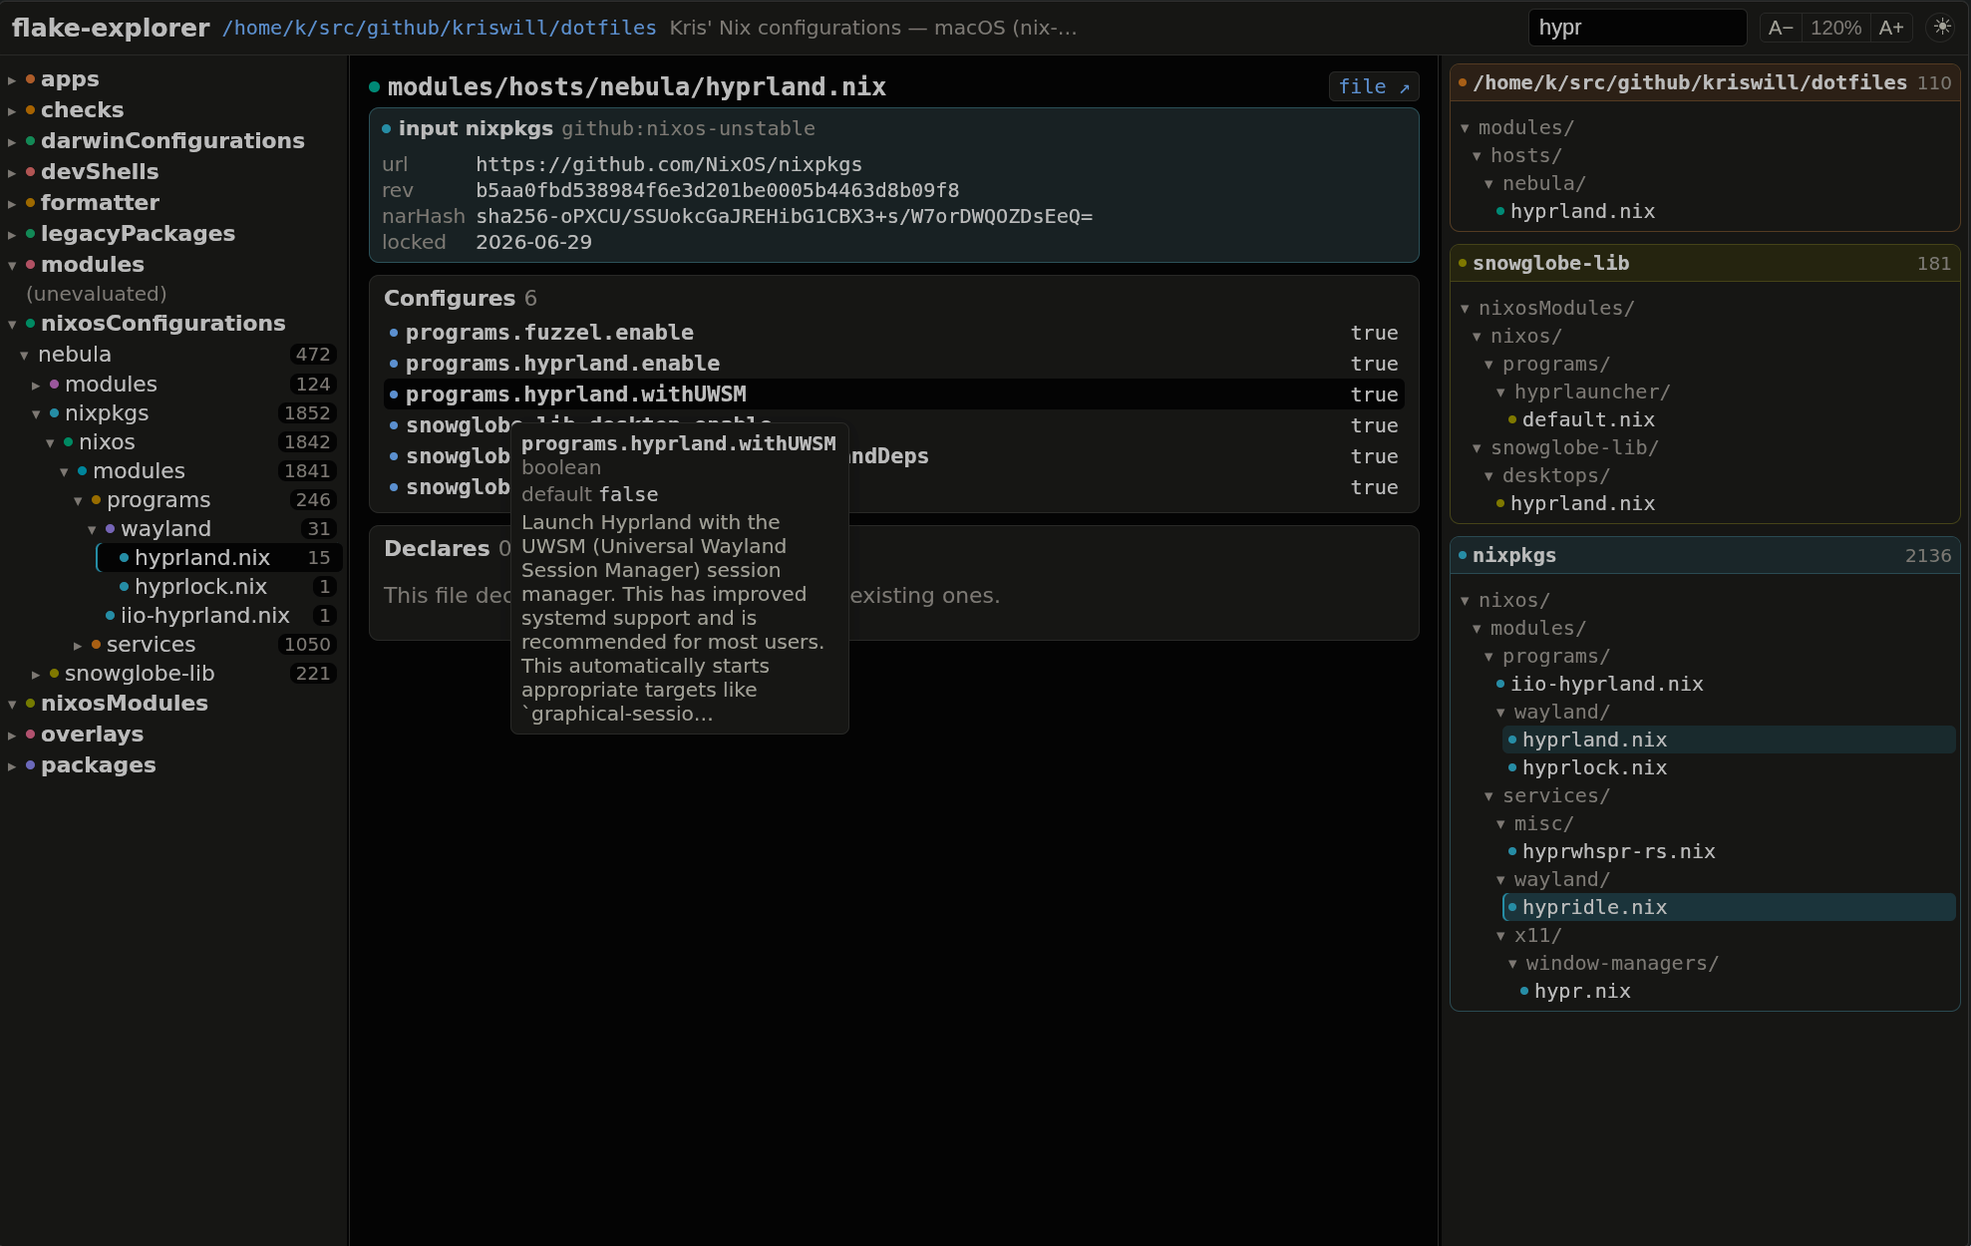
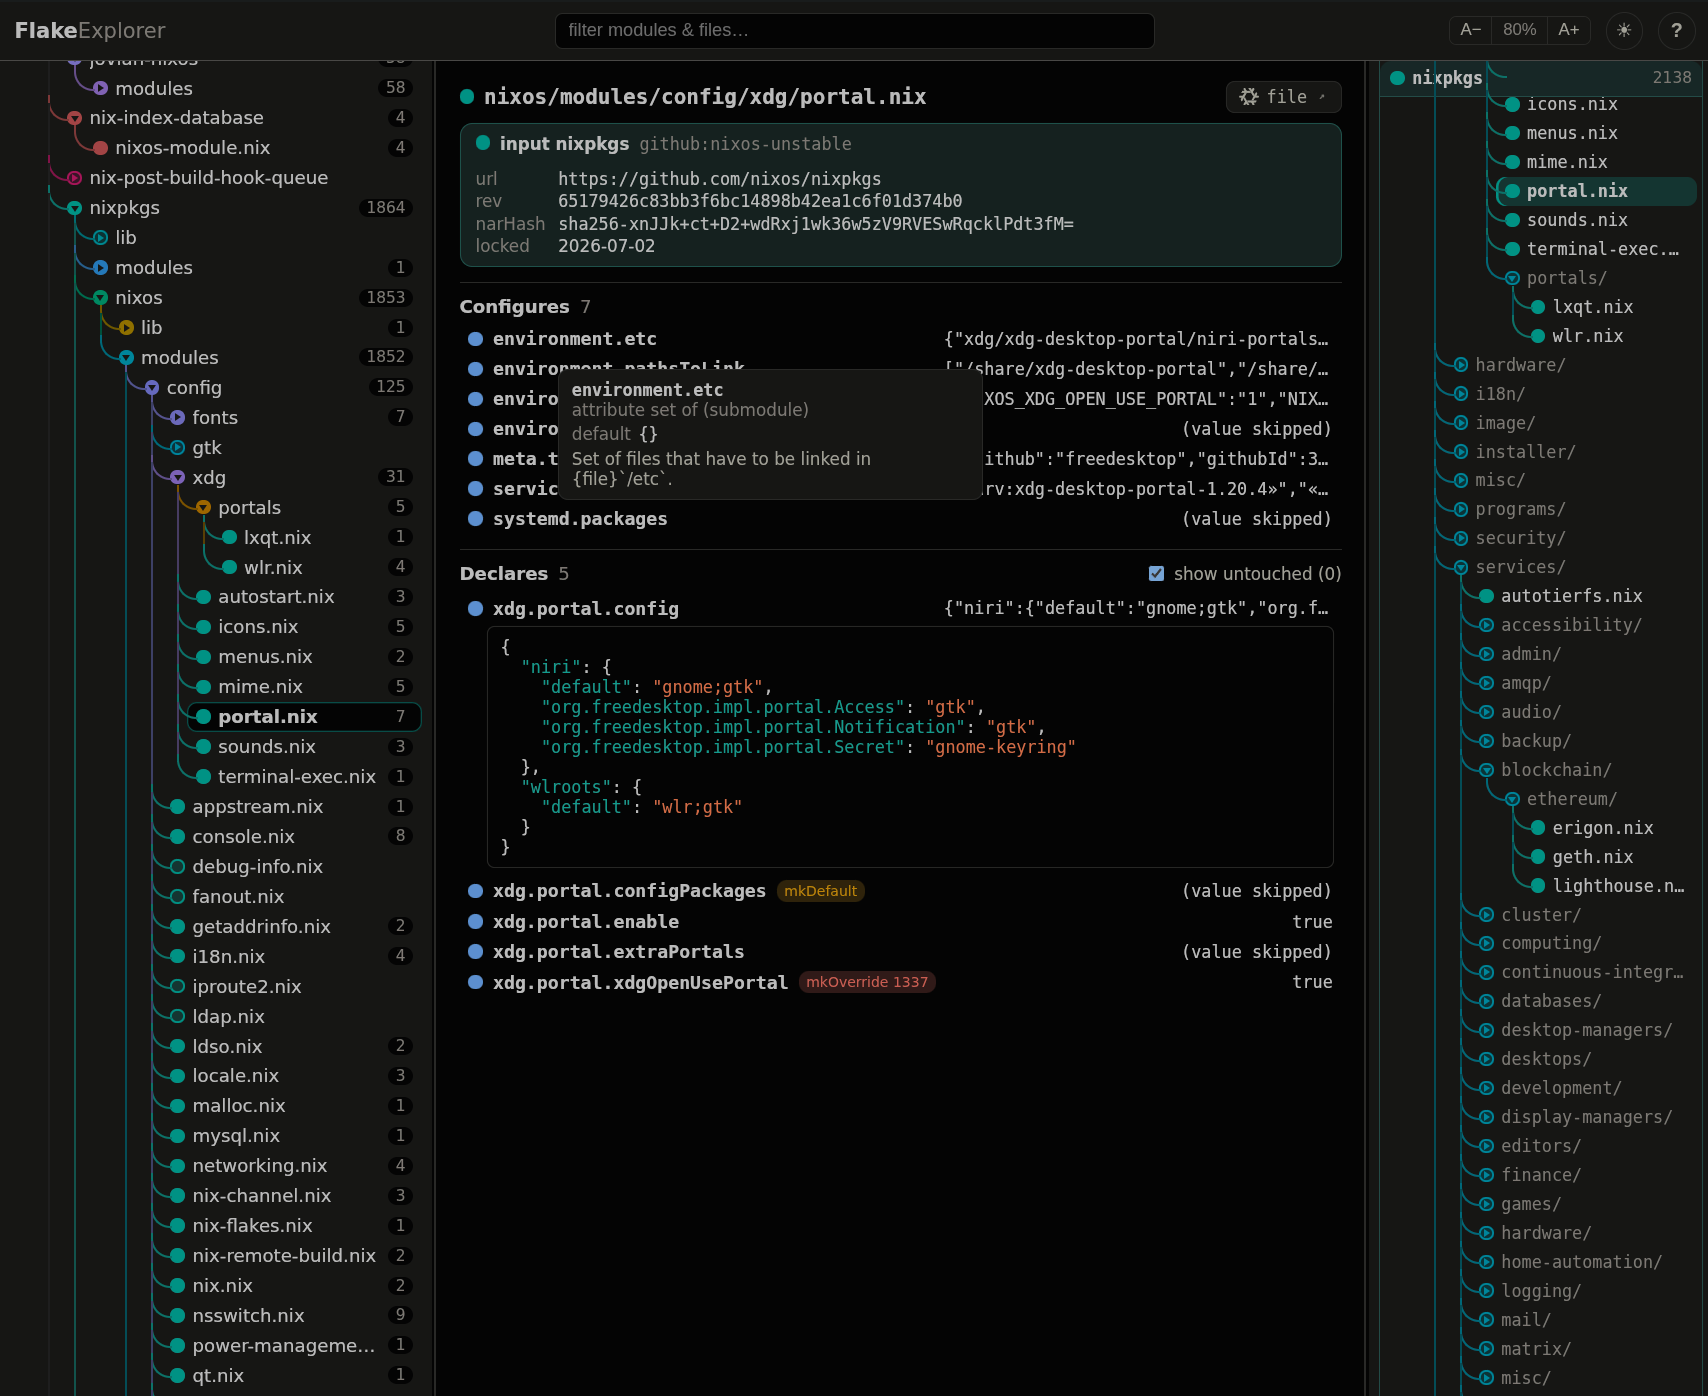
docs: update README hero screenshot

Changed region(s): [[0.0, 0.0, 1.0, 1.0], [0.2482, 0.61, 0.5585, 0.7319], [0.6206, 0.427, 0.6516, 0.4575]]

diff --git a/README.md b/README.md
@@ -4,7 +4,7 @@ Interactive visualizer for Nix flakes — built for dendritic
 ([flake-parts](https://flake.parts) + [import-tree](https://github.com/vic/import-tree))
 configurations, works on any flake.
 
-![flake-explorer browsing a NixOS configuration: module tree filtered to "hypr", option detail with input provenance and a hover tooltip, file tree grouped by origin](docs/preview.png)
+![flake-explorer browsing a NixOS configuration: module tree on the left, portal.nix detail showing input provenance, Configures/Declares with a hover tooltip and syntax-highlighted JSON value, nixpkgs module tree on the right](docs/preview.png)
 
 Three panes:
 